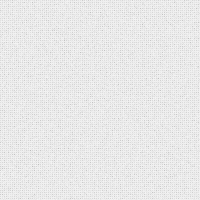
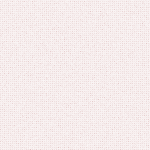
ajustes

diff --git a/www/js/index.js b/www/js/index.js
@@ -21,40 +21,23 @@
                 }
             }
 */
+
         var conn = checkConnection();
         conecta = conn.split("|");
-        var dataConn;
-
-        if(conecta[0]!=='0'){
-            dataCloud(conecta[1]);
-        }else if (localStorage.getItem("dataConn")!==null) {
-          dataConn = localStorage.getItem("dataConn");
-        }
-
-        document.getElementById('status2').innerHTML = conecta[1]+"["+conecta[0]+"]";
-        document.getElementById("btn_tribus").disabled = false;    
-        document.getElementById("favoritos").style.display = "block";
+        document.getElementById('status2').innerHTML = "<img src='img/'"+conecta[0]+"'conn.png' width='32' height='32'>";
+        conecta[0]!=='0' ? dataCloud(conecta[1]) : ok_conn_sync();
     },
     // Aguarda dados de conexão e sincronia de favoritos
     //==============================================================================================
     ok_conn_sync: function() { 
         //buscar dados local do usuário
         var cadastro = localStorage.getItem('user_id')!==null ? true : false;
-      /*  
-        if(localStorage.getItem('user_id')!==null){
-            alert('celular cadastrado!');
-        }else{
-            alert('celular ainda não cadastrado!');
-        }
-      */  
         if(cadastro){ dataConn = JSON.parse( localStorage.getItem('dataConn') );}
-
         if(conecta[0] === '0') { //Não está conectado
             document.getElementById('btn_tribus').innerHTML = "Verificar conexão";    
 
             if(cadastro){//Já tem cadastro - exibir informações na tela
                 document.getElementById("cadastrado").style.display = "block";
-                
                 document.getElementById('username').innerHTML = dataConn.nome;
                 document.getElementById('tribo').innerHTML = dataConn.tribo;
                 document.getElementById('bonus').innerHTML = dataConn.bonus;
@@ -68,22 +51,22 @@
         if(conecta[0] === '2') { //Conexão via celular ... consome franquia
             if (cadastro) {
                 document.getElementById("cadastrado").style.display = "block";
-                document.getElementById('username').innerHTML = dataConn['nome'];
-                document.getElementById('tribo').innerHTML = dataConn['tribo'];
-                document.getElementById('bonus').innerHTML = dataConn['bonus'];
-                document.getElementById('bloqueados').innerHTML = dataConn['bloqueados'];
-                document.getElementById('ultima_consulta').innerHTML = dataConn['ultima_consulta'];
-                document.getElementById('user_name').innerHTML = obj['nome'];
+                document.getElementById('username').innerHTML = dataConn.nome;
+                document.getElementById('tribo').innerHTML = dataConn.tribo;
+                document.getElementById('bonus').innerHTML = dataConn.bonus;
+                document.getElementById('bloqueados').innerHTML = dataConn.bloqueados;
+                document.getElementById('ultima_consulta').innerHTML = dataConn.ultima_consulta;
+                document.getElementById('user_name').innerHTML = obj.nome;
                 document.getElementById('conn').innerHTML = conecta[1];
             }else{
                 //abrirTribus('http://www.atendeweb.net/atende/admin/svcs/_page_index.php?id=7&dom=tribus');  
                 var url ='http://www.atendeweb.net/atende/admin/svcs/_page_index.php?id=7&dom=tribus'
-                cadastro(url);
+                fazerCadastro(url);
             }    
         }    
         if(conecta[0] === "1") { //Conectado no wifi ou Ehternet
             if (cadastro) {
-              var url =  "http://www.atendeweb.net/atende/login/_login.php?local=tribus"; 
+              var url =  "http://www.atendeweb.net/atende/login/_login.php?local=tribus&u="+dataConn.nome; 
               abrirTribus(url);
             }else{
                 fazerCadastro('http://www.atendeweb.net/atende/admin/svcs/_page_index.php?id=7&dom=tribus');  
@@ -214,14 +197,13 @@ function dataCloud(conexao){
                     var obj = JSON.parse(retorno);
                     //$.each(obj, function(index, value){
                     //});
-                    //var texto = obj['login']+"\n"+obj['nome']+"\n"+obj['tribo']+"\n"+obj['cota_bonus']+"\n"+obj['ultima_consulta']+"\n"+obj['bonus']+"\n"+obj['bloqueados'];
 
                     //alert (texto);
-                    if(obj['login'].length > 0){
+                    if(obj.login.length > 0){
                         localStorage.setItem("dataConn", JSON.stringify( obj ) );
-                        localStorage.setItem("user_id", obj["user_id"]);
+                        localStorage.setItem("user_id", obj.user_id);
                     }else{
-                        localStorage.removeItem("user_id", obj["user_id"]);
+                        localStorage.removeItem("user_id");
                     }    
                 },
                 error: function(erro){  

diff --git a/www/index.html b/www/index.html
@@ -86,7 +86,7 @@
             </div>
             <div id="status2"></div>
 
-            <button type="button" id='btn_tribus' onclick="app.btnTribus();" disabled>Entrar</button>
+            <button type="button" id='btn_tribus' onclick="app.btnTribus();">Entrar</button>
             <div id="status"></div>
 
         </div>
@@ -100,7 +100,7 @@
 </div><!-- /page -->
 
 <!-- Start of second page -->
-<div data-role="page" id="favoritos">
+<div class="fav-bg" data-role="page" id="favoritos" >
 
     <div data-role="header">
         <h1>Meus Favoritos</h1>

diff --git a/www/css/tribus.css b/www/css/tribus.css
@@ -5,6 +5,10 @@
       background: url("images/fundo.png") repeat scroll center top;
       margin-top:0;
       }
+ .fav-bg{
+ 	  background: url("images/fundofav.png") repeat scroll center top;
+      margin-top:0;
+ }     
 
 .footer-button-left,
 .footer-button-right {
